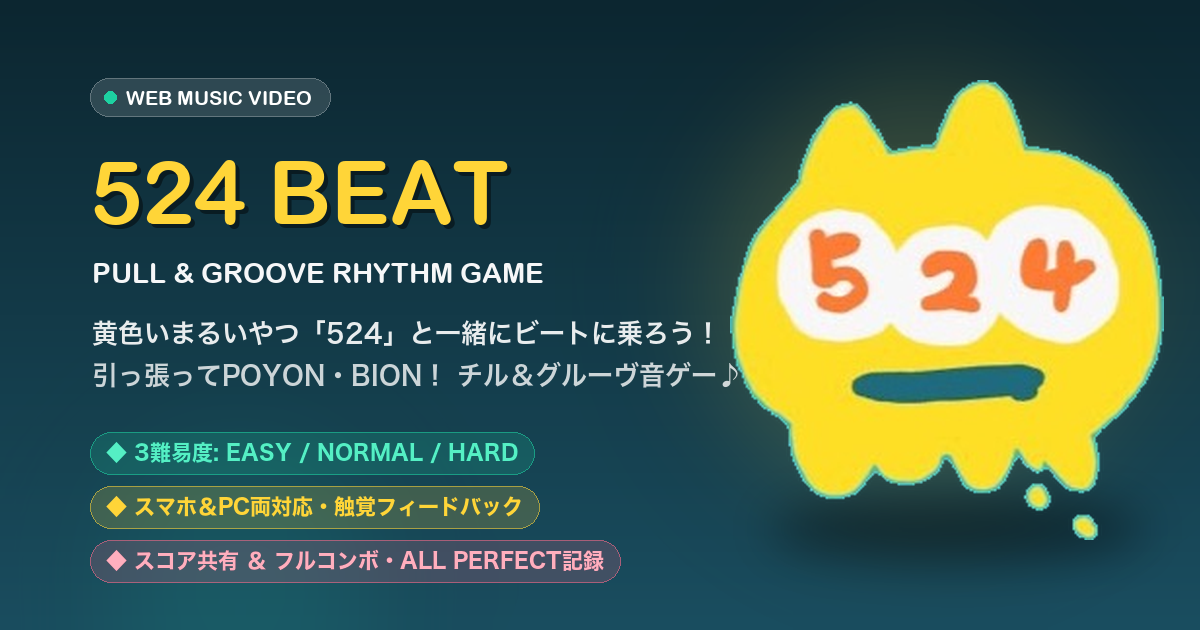
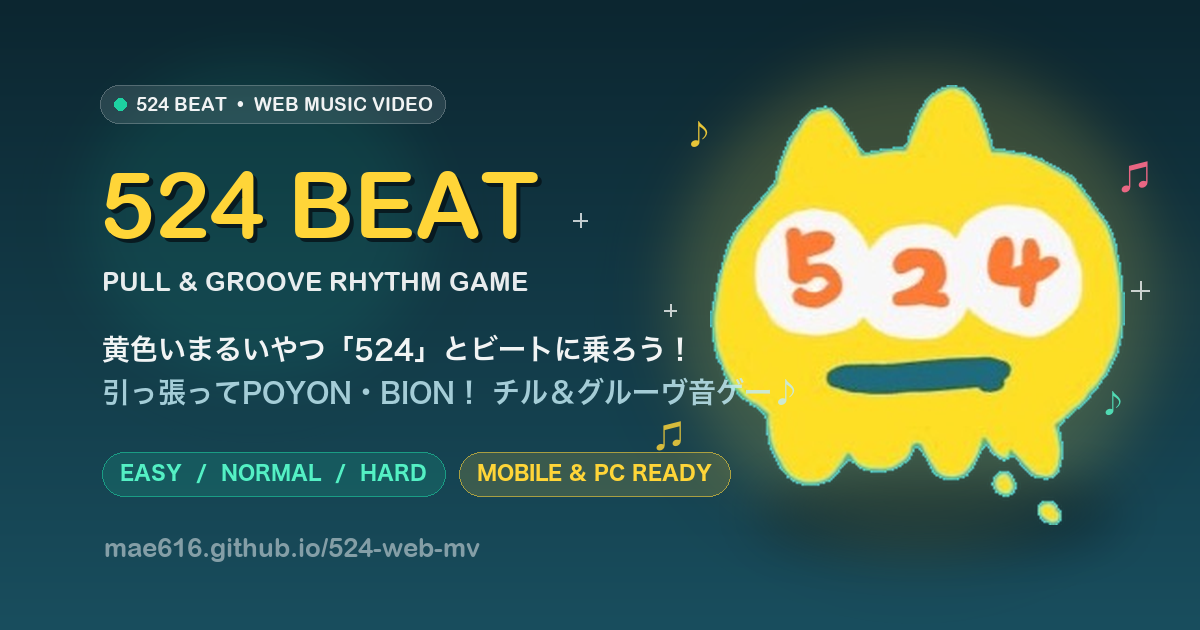
feat: OGP批評ループによるMobbin水準再設計 ＆ サウンド厚み強化・リザルト数値ロールアップ演出・スキン名表示

Changed region(s): [[0.0617, 0.1206, 0.9867, 0.9349], [0.0617, 0.2413, 0.4625, 0.4825], [0.0617, 0.1206, 0.37, 0.2111]]

diff --git a/src/audio/Synth.ts b/src/audio/Synth.ts
@@ -114,62 +114,78 @@ export class Synth {
   }
 
   /**
-   * 温かみのあるグルーヴ・シンセベース
+   * 温かみのあるグルーヴ・シンセベース（サブベースレイヤー追加で厚み向上）
    */
   public playBass(freq: number, time: number = this.ctx.currentTime, duration: number = 0.25): void {
-    const osc = this.ctx.createOscillator();
+    const oscMain = this.ctx.createOscillator();
+    const oscSub = this.ctx.createOscillator();
     const filter = this.ctx.createBiquadFilter();
     const gain = this.ctx.createGain();
 
-    osc.type = 'sawtooth';
-    osc.frequency.setValueAtTime(freq, time);
+    // メインベース（のこぎり波 + フィルター）
+    oscMain.type = 'sawtooth';
+    oscMain.frequency.setValueAtTime(freq, time);
+
+    // サブベース（1オクターブ下の純粋なサイン波で豊かな低音感）
+    oscSub.type = 'sine';
+    oscSub.frequency.setValueAtTime(freq * 0.5, time);
 
     filter.type = 'lowpass';
-    filter.frequency.setValueAtTime(freq * 3, time);
+    filter.frequency.setValueAtTime(freq * 3.5, time);
     filter.frequency.exponentialRampToValueAtTime(freq * 1.2, time + duration);
 
-    gain.gain.setValueAtTime(0.55, time);
+    gain.gain.setValueAtTime(0.5, time);
     gain.gain.exponentialRampToValueAtTime(0.001, time + duration);
 
-    osc.connect(filter);
+    oscMain.connect(filter);
+    oscSub.connect(filter);
     filter.connect(gain);
     gain.connect(this.masterNode);
 
-    osc.start(time);
-    osc.stop(time + duration);
+    oscMain.start(time);
+    oscSub.start(time);
+    oscMain.stop(time + duration);
+    oscSub.stop(time + duration);
   }
 
   /**
-   * ドリーミーなコード・シンセパッド
+   * ドリーミーなコード・シンセパッド（ツインオシレーター＋コーラスデチューンで厚み向上）
    */
   public playChordNote(freq: number, time: number = this.ctx.currentTime, duration: number = 1.0, gainVal: number = 0.15): void {
     const osc1 = this.ctx.createOscillator();
     const osc2 = this.ctx.createOscillator();
+    const osc3 = this.ctx.createOscillator();
     const filter = this.ctx.createBiquadFilter();
     const gain = this.ctx.createGain();
 
     osc1.type = 'triangle';
     osc2.type = 'sine';
+    osc3.type = 'triangle';
 
     osc1.frequency.setValueAtTime(freq, time);
-    osc2.frequency.setValueAtTime(freq * 1.003, time); // わずかなデチューンで広がり
+    osc2.frequency.setValueAtTime(freq * 1.004, time); // +4セントのコーラス感
+    osc3.frequency.setValueAtTime(freq * 0.996, time); // -4セントのコーラス感
 
     filter.type = 'lowpass';
-    filter.frequency.setValueAtTime(1400, time);
+    filter.frequency.setValueAtTime(1600, time);
+    filter.frequency.linearRampToValueAtTime(900, time + duration);
 
     gain.gain.setValueAtTime(0.001, time);
-    gain.gain.linearRampToValueAtTime(gainVal, time + 0.1);
+    gain.gain.linearRampToValueAtTime(gainVal * 0.85, time + 0.08);
     gain.gain.exponentialRampToValueAtTime(0.001, time + duration);
 
     osc1.connect(filter);
     osc2.connect(filter);
+    osc3.connect(filter);
     filter.connect(gain);
     gain.connect(this.masterNode);
 
     osc1.start(time);
     osc2.start(time);
+    osc3.start(time);
     osc1.stop(time + duration);
     osc2.stop(time + duration);
+    osc3.stop(time + duration);
   }
 
   /**

diff --git a/src/main.ts b/src/main.ts
@@ -24,6 +24,7 @@ class App {
   private startBtn = document.getElementById('start-btn') as HTMLButtonElement;
   private diffButtons = document.querySelectorAll<HTMLButtonElement>('.diff-btn');
   private skinButtons = document.querySelectorAll<HTMLButtonElement>('.skin-btn');
+  private skinNameBadge = document.getElementById('skin-name-badge') as HTMLElement | null;
   private previewImg = document.querySelector<HTMLImageElement>('.preview-img');
   private resultAvatar = document.querySelector<HTMLImageElement>('.result-avatar');
   private playPauseBtn = document.getElementById('play-pause-btn') as HTMLButtonElement;
@@ -410,16 +411,38 @@ class App {
     if (this.resultRank) {
       this.resultRank.textContent = result.rank;
       this.resultRank.className = `rank-circle rank-${result.rank.toLowerCase()}`;
+      if (result.rank === 'S') {
+        this.character.triggerHappy(3.5);
+        this.character.triggerDance(3.0);
+      }
     }
 
+    // スコアのドラマチックなロールアップ（カウントアップ）演出
     if (this.resultScoreNumber) {
-      this.resultScoreNumber.textContent = result.score.toLocaleString();
+      const targetScore = result.score;
+      const duration = 1200; // 1.2秒
+      const startTime = performance.now();
+      const el = this.resultScoreNumber;
+
+      const animateRollup = (now: number) => {
+        const elapsed = now - startTime;
+        const progress = Math.min(1, elapsed / duration);
+        const eased = progress === 1 ? 1 : 1 - Math.pow(2, -10 * progress);
+        const currentVal = Math.round(targetScore * eased);
+        el.textContent = currentVal.toLocaleString();
+        if (progress < 1) {
+          requestAnimationFrame(animateRollup);
+        } else {
+          el.textContent = targetScore.toLocaleString();
+        }
+      };
+      requestAnimationFrame(animateRollup);
     }
 
     if (this.resultBestBadge) {
       this.resultBestBadge.style.display = result.isNewBest ? 'inline-block' : 'none';
       if (result.isNewBest) {
-        this.character.triggerDance(2.5);
+        this.character.triggerDance(3.0);
       }
     }
 
@@ -579,6 +602,17 @@ https://mae616.github.io/524-web-mv/
     }
     if (this.resultAvatar) {
       this.resultAvatar.style.filter = cssFilter;
+    }
+
+    const skinNames: Record<CharacterSkin, string> = {
+      yellow: 'CLASSIC',
+      pink: 'SAKURA',
+      mint: 'MINT',
+      blue: 'SODA',
+      purple: 'LAVENDER',
+    };
+    if (this.skinNameBadge) {
+      this.skinNameBadge.textContent = skinNames[skin] || 'CLASSIC';
     }
 
     try {

diff --git a/src/style.css b/src/style.css
@@ -230,6 +230,20 @@ html, body {
   box-shadow: 0 0 10px var(--skin-c), 0 2px 8px rgba(0, 0, 0, 0.35);
 }
 
+.skin-name-badge {
+  font-size: 10px;
+  font-weight: 900;
+  letter-spacing: 0.8px;
+  color: #fff;
+  background: rgba(255, 255, 255, 0.16);
+  padding: 3px 8px;
+  border-radius: 12px;
+  border: 1px solid rgba(255, 255, 255, 0.2);
+  min-width: 60px;
+  text-align: center;
+  transition: all 0.2s ease;
+}
+
 .start-button {
   display: inline-flex;
   align-items: center;

diff --git a/index.html b/index.html
@@ -62,6 +62,7 @@
             <button class="skin-btn" data-skin="blue" title="ソーダブルー" style="--skin-c: #00cec9;"></button>
             <button class="skin-btn" data-skin="purple" title="ラベンダーパープル" style="--skin-c: #a29bfe;"></button>
           </div>
+          <span id="skin-name-badge" class="skin-name-badge">CLASSIC</span>
         </div>
 
         <button id="start-btn" class="start-button">
